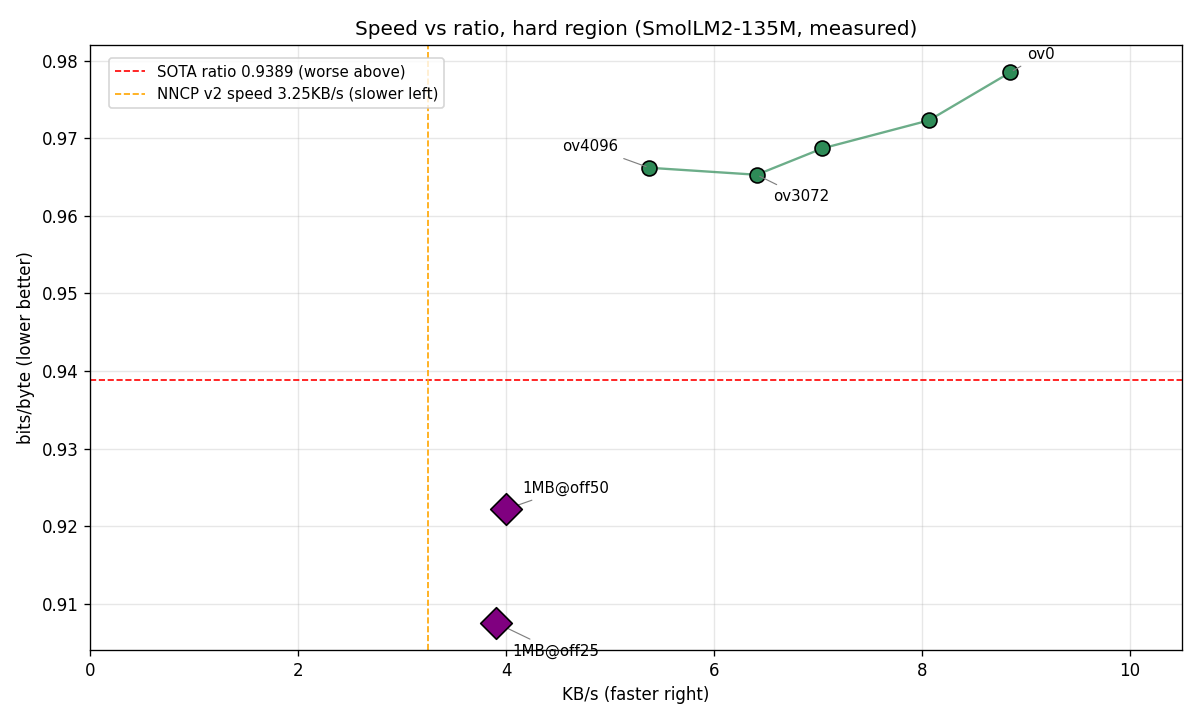
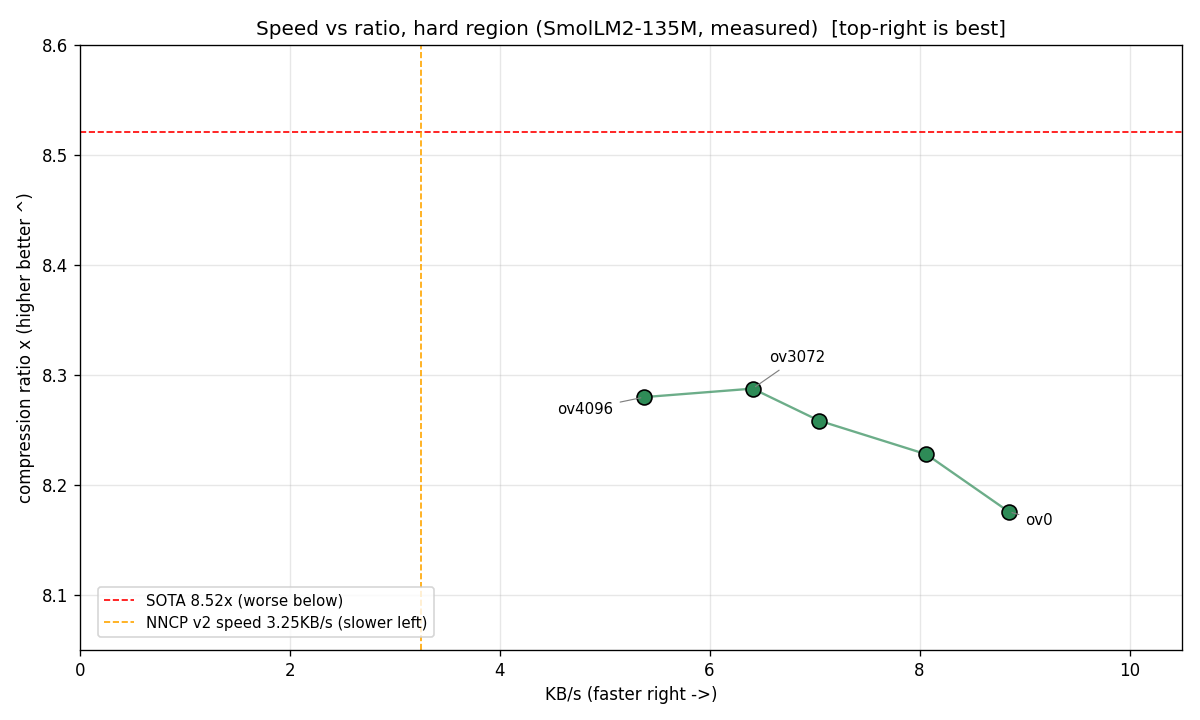
Intuitive Pareto: y=compression ratio, best top-right

diff --git a/tools/pareto_plot.py b/tools/pareto_plot.py
@@ -1,8 +1,9 @@
-"""Pareto frontier: speed vs ratio (measured, 100KB slices).
+"""Pareto frontier: speed vs compression ratio (measured, 100KB slices).
 
 Run from repo root: python tools/pareto_plot.py  (CPU only)
-Output: pareto.png (repo root, referenced by README)
-X axis is KB/s so 1MB runs are directly comparable.
+Output: pareto_off50.png / pareto_off75.png (repo root, referenced by README)
+X = KB/s (faster right), Y = compression ratio 8/bpb (higher better),
+so the ideal corner is TOP-RIGHT. X axis is KB/s so 1MB runs comparable.
 """
 import matplotlib
 
@@ -49,19 +50,21 @@ MB1 = [
     ("1MB@off25", 1024 / 262.7, 0.9076),
 ]
 SOTA_BPB = 0.9389          # Nacrith paper, full file
+SOTA_RATIO = 8.0 / SOTA_BPB  # 8.52x: higher-is-better twin of the SOTA line
 NNCP_KBS = 3.25            # NNCP v2 reference speed
 
 
-def _base(title):
+def _base(title, ymin, ymax):
     fig, ax = plt.subplots(figsize=(10, 6))
-    ax.axhline(SOTA_BPB, color="red", linestyle="--", linewidth=1,
-               label="SOTA ratio 0.9389 (worse above)")
+    ax.axhline(SOTA_RATIO, color="red", linestyle="--", linewidth=1,
+               label="SOTA 8.52x (worse below)")
     ax.axvline(NNCP_KBS, color="orange", linestyle="--", linewidth=1,
                label="NNCP v2 speed 3.25KB/s (slower left)")
-    ax.set_xlabel("KB/s (faster right)")
-    ax.set_ylabel("bits/byte (lower better)")
-    ax.set_title(title)
-    ax.legend(loc="upper left", bbox_to_anchor=(0.01, 0.99), fontsize=9)
+    ax.set_xlabel("KB/s (faster right ->)")
+    ax.set_ylabel("compression ratio x (higher better ^)")
+    ax.set_title(title + "  [top-right is best]")
+    ax.set_ylim(ymin, ymax)
+    ax.legend(loc="lower left", bbox_to_anchor=(0.01, 0.01), fontsize=9)
     ax.grid(True, alpha=0.3)
     return fig, ax
 
@@ -75,11 +78,12 @@ def _anno(ax, lab, x, y, dx, dy):
 
 def _dots(ax, pts, color, show, offsets):
     xs = [p[1] for p in pts]
-    ys = [p[2] for p in pts]
+    ys = [8.0 / p[2] for p in pts]
     order = sorted(range(len(pts)), key=lambda i: pts[i][1])
     ax.plot([xs[i] for i in order], [ys[i] for i in order],
             color=color, linewidth=1.4, alpha=0.7)
-    for lab, x, y in pts:
+    for lab, x, _bpb in pts:
+        y = 8.0 / _bpb
         star = lab.endswith("crown") or lab.endswith("knee")
         ax.scatter([x], [y], s=150 if star else 80,
                    marker="*" if star else "o", color=color,
@@ -89,31 +93,34 @@ def _dots(ax, pts, color, show, offsets):
 
 
 def _diamonds(ax):
-    for lab, x, y in MB1:
+    for lab, x, _bpb in MB1:
+        y = 8.0 / _bpb
         ax.scatter([x], [y], s=180, marker="D", color="purple",
                    edgecolors="black", zorder=4)
-        _anno(ax, lab, x, y, 10, 10 if "off50" in lab else -20)
+        _anno(ax, lab, x, y, 10, -10 if "off50" in lab else 20)
 
 
 # ---- plot 1: off50 frontier ----
-fig, ax = _base("Speed vs ratio, article region (SmolLM2-135M, measured)")
+fig, ax = _base("Speed vs ratio, article region (SmolLM2-135M, measured)",
+                8.4, 9.0)
 _dots(ax, OFF50, "steelblue", show=("K8k\ncrown", "K16k", "ov0@K8", "ov2048@K8",
                                     "ov4096\nK1k", "ov2048\nknee", "ov0\n10KB/s",
                                     "gather\n18.9KB/s"),
-      offsets={"K8k\ncrown": (-60, -20), "K16k": (8, -18), "ov0@K8": (8, 8),
-               "ov2048@K8": (-64, 8), "ov4096\nK1k": (-64, 10),
-               "ov2048\nknee": (10, -22), "ov0\n10KB/s": (8, -18),
-               "gather\n18.9KB/s": (8, 10)})
+      offsets={"K8k\ncrown": (-60, 20), "K16k": (8, 18), "ov0@K8": (8, -8),
+               "ov2048@K8": (-64, -8), "ov4096\nK1k": (-64, -10),
+               "ov2048\nknee": (10, 22), "ov0\n10KB/s": (8, 18),
+               "gather\n18.9KB/s": (8, -10)})
 _diamonds(ax)
-ax.set_xlim(0, 11)
+ax.set_xlim(0, 20)
 fig.tight_layout()
 fig.savefig("pareto_off50.png", dpi=120)
 print("saved pareto_off50.png")
 
 # ---- plot 2: off75 hard region ----
-fig, ax = _base("Speed vs ratio, hard region (SmolLM2-135M, measured)")
+fig, ax = _base("Speed vs ratio, hard region (SmolLM2-135M, measured)",
+                8.05, 8.6)
 _dots(ax, OFF75, "seagreen", show=("ov4096", "ov3072", "ov0"),
-      offsets={"ov4096": (-52, 10), "ov3072": (10, -16), "ov0": (10, 8)})
+      offsets={"ov4096": (-52, -10), "ov3072": (10, 16), "ov0": (10, -8)})
 _diamonds(ax)
 ax.set_xlim(0, 10.5)
 fig.tight_layout()

diff --git a/FINAL-REPORT.md b/FINAL-REPORT.md
@@ -159,4 +159,8 @@ gather（logits 上 topk＋lse＋pi-gather＋CPU exp＋稀疏 blk，numba V-stam
 
 放量梯子（全 220/220）：速度 gather 5.3 秒／56.9 秒／632 秒（100KB/1MB/10MB：18.9/18.0/16.2KB/s，顯存 4.01GB 持平）；10MB 比率 0.9039（cache 隨規模變熱）。新 `tools/scale_plot.py`→`scale_time_size.png`（大小-時間雙對數＋比率-大小）。Pareto v5：30 點。全檔 100MB gather 速度約 1.7 小時——可過夜。
 
+## 18. 直覺化圖表：最好去右上（2026-09-14）
+
+舊 Pareto 圖最好（又快又緊）沉在右下角（y＝bpb 越低越好）——跟閱讀直覺反著。兩張圖 y 軸改壓縮比 8/bpb（越高越好）：x＝吞吐（越右越快），紅色 SOTA 線在 8.52x（之下皆輸），理想角落右上。同樣 30 個實測點，同腳本（`tools/pareto_plot.py`）。前沿線誠實顯示取捨：王座上中（8.89x @ 4.2KB/s）、gather 右下（8.63x @ 18.9KB/s）——右上還空著；那個空角就是下一條前沿。
+
 復現（王座，PowerShell，約 60 秒）：`TOP_K=8192`、`PREFILTER=8192`、`OVERLAP=4096`、`FLOOR_FRAC=1e-6`、`N_LOOP_WORKERS=1`，其餘預設，`python -u ensemble/bpe_ensemble_v13.py`——驗收 `bits/byte: 0.9003`、`Verified: 220 lossless, fails: 0`。速度版：`TOP_K=1024`、`OVERLAP=0`、`PREFILTER=2048`——驗收 0.9268、約 9.8 秒。

diff --git a/FINAL-REPORT.en.md b/FINAL-REPORT.en.md
@@ -162,3 +162,7 @@ Gather (topk on logits + lse + pi-gather + CPU exp + sparse blk, numba V-stamp t
 Ratio shots: PF16384/K8192 = 0.9004 (tail NOT recovered by width; PEAK 8.01GB red line — never exceed PF8192); LAMBDA=0.999 = 0.9010 (pure-LM loses blend). No new record; K/lambda/overlap/CONF/tri/PF/floor/S2 all closed.
 
 Scale ladder (all 220/220): speed-gather 5.3 s / 56.9 s / 632 s (100KB/1MB/10MB: 18.9/18.0/16.2 KB/s, PEAK 4.01GB flat); 10MB ratio 0.9039 (cache warms with scale). New `tools/scale_plot.py` → `scale_time_size.png` (size-vs-time log-log + bpb-vs-size). Pareto v5: 30 points. Full 100MB ≈ 1.7 h gather-speed — overnight-able.
+
+## 18. Intuitive charts: best goes top-right (2026-09-14)
+
+The old Pareto plots had best (fast + tight) sinking to the bottom-right (y = bpb, lower better) — backwards from reading intuition. Both plots now use y = compression ratio 8/bpb (higher better): x = throughput (faster right), red SOTA line at 8.52x (worse below), ideal corner top-right. Same 30 measured points, same script (`tools/pareto_plot.py`). The frontier honestly shows the trade: crown top-middle (8.89x @ 4.2KB/s), gather bottom-right (8.63x @ 18.9KB/s) — nothing sits top-right yet; that empty corner is the next frontier.
